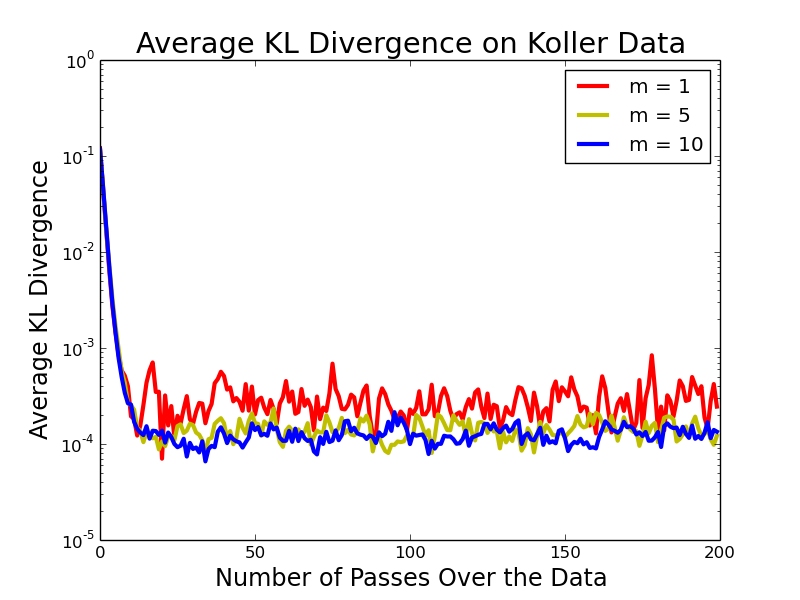
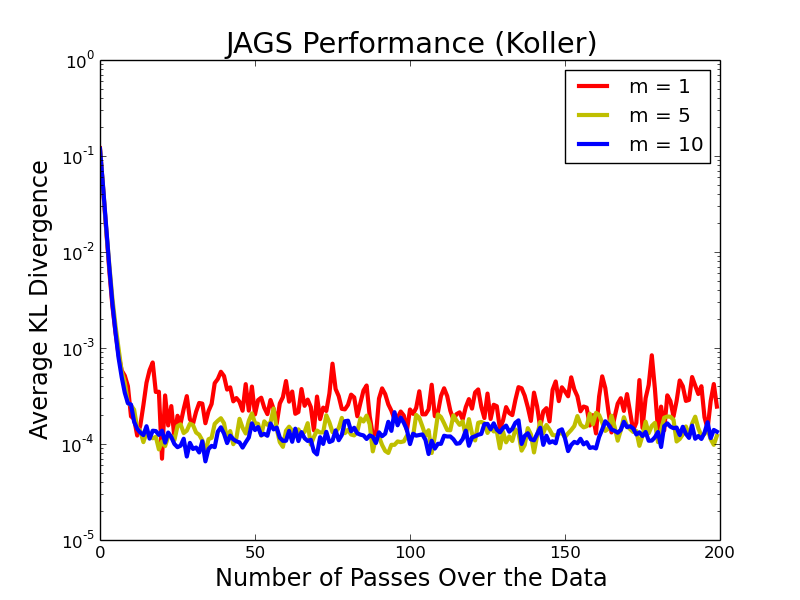
fill in partof the benchmark value for JAGS

Changed region(s): [[0.1562, 0.03, 0.875, 0.09]]

diff --git a/iclr2016_conference.tex b/iclr2016_conference.tex
@@ -367,7 +367,7 @@ data! I.e., figures should have the title: XXX (Koller) or XXX (MOOC).}
                   & $m=1$ & $m=2$ & $m=5$ & $m=10$ & $m=20$ \\
 \hline \hline
 BIDMach Time/Iter & 0.055 & 0.090 & 0.165 & 0.311  & 0.577 \\ 
-JAGS Time/Iter    & & & & & \\
+JAGS Time/Iter    & 0.210 &  & 1.406 & 2.675 & \\
 \hline
 \end{tabular}
 \end{center}
@@ -489,8 +489,8 @@ increasing $m$ results in faster convergence.
 \hline
                   & 1x    & 2x    & 5x    & 10x   & 20x   & 40x   \\
 \hline \hline
-BIDMach Time/Iter & 0.182 & 0.375 & 0.931 & 1.792 & 3.501 & 7.181 \\ 
-JAGS Time/Iter    & & & & & & OOM \\
+BIDMach Time(sec)/Iter & 0.182 & 0.375 & 0.931 & 1.792 & 3.501 & 7.181 \\ 
+JAGS Time(sec)/Iter    & & & & 94.075 & & OOM \\
 \hline
 \end{tabular}
 \end{center}

diff --git a/data_and_scripts/Figure3_Material/draw.py b/data_and_scripts/Figure3_Material/draw.py
@@ -64,7 +64,7 @@ for i in xrange(3):
 # Be sure to increase the font sizes! I might also have to experiment with a lot of other settings.
 plt.legend(loc='upper right', ncol=1)
 
-plt.title('Average KL Divergence (Koller)', fontsize='xx-large'
+plt.title('JAGS Performance (Koller)', fontsize='xx-large')
 plt.yscale('log')
 plt.xlabel('Number of Passes Over the Data', fontsize='x-large')
 plt.ylabel('Average KL Divergence', fontsize='x-large')
